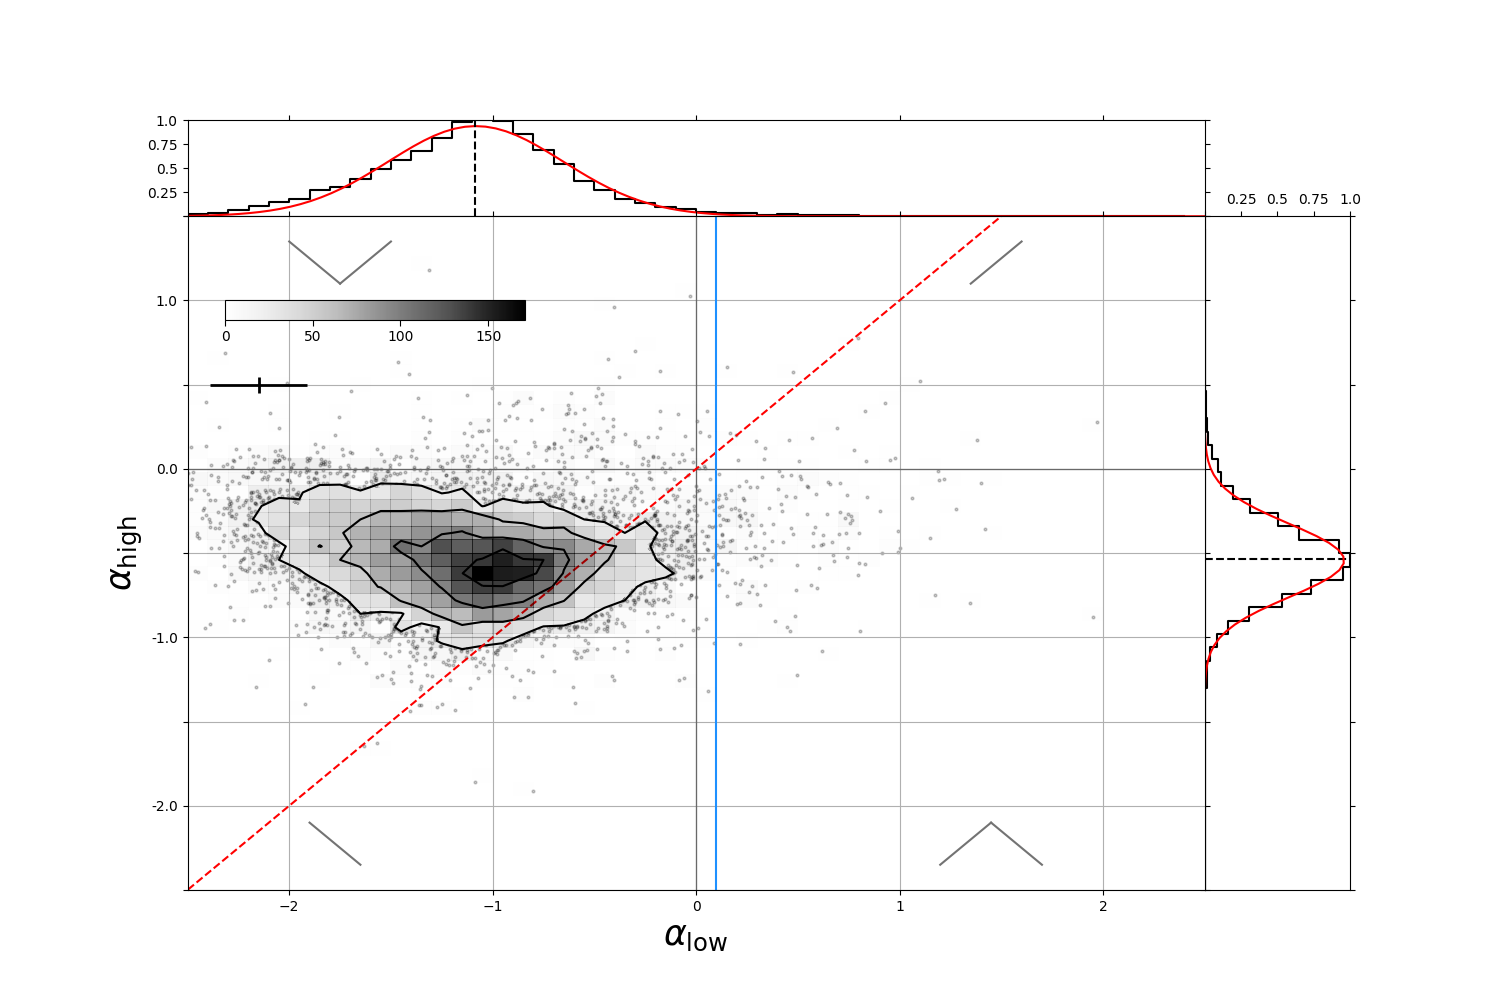
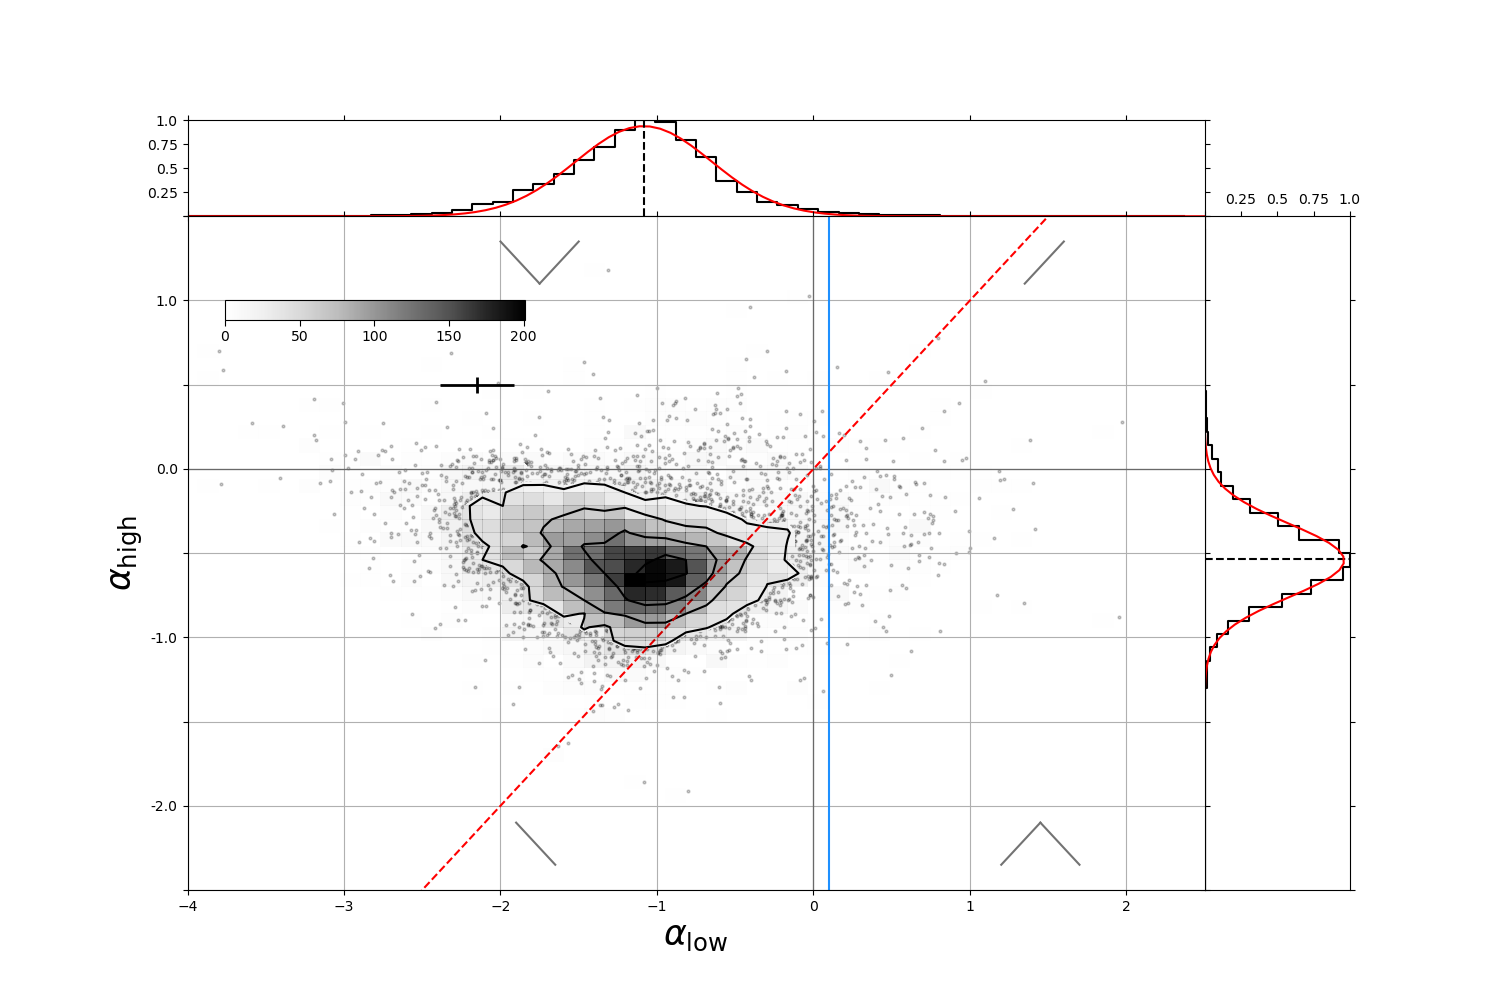
fixed peak to total flux

diff --git a/code_martje/data_selec_isolated.py b/code_martje/data_selec_isolated.py
@@ -15,12 +15,12 @@ survey.close()
 print(data.colnames)
 data.sort('RA')
 
-
+#FIX COMMENTS LATER, NOW JUST RUN IT WITH OTHER COLUMN
 # # Get flux data + errors from data
-peak_flux = data['Peak_flux']
+total_flux = data['Total_flux']
 
 # # Get position data
-sample = len(peak_flux) - 1
+sample = len(total_flux) - 1
 RA = np.array(data['RA'])
 DEC = np.array(data['DEC'])
 
@@ -42,15 +42,15 @@ for index, i in enumerate(tqdm(RA)):
     if index - border < 0:
         RA_i = np.concatenate((RA[index - border:], RA[:index + border]))
         DEC_i = np.concatenate((DEC[index - border:], DEC[:index + border]))
-        peak_flux_i = np.concatenate((peak_flux[index - border:], peak_flux[:index + border]))
+        total_flux_i = np.concatenate((total_flux[index - border:], total_flux[:index + border]))
     elif index + border > len(RA):
         RA_i = np.concatenate((RA[index-border:], RA[:index+border-len(RA)]))
         DEC_i = np.concatenate((DEC[index-border:], DEC[:index+border-len(RA)]))
-        peak_flux_i = np.concatenate((peak_flux[index-border:], peak_flux[:index+border-len(RA)]))
+        total_flux_i = np.concatenate((total_flux[index-border:], total_flux[:index+border-len(RA)]))
     else:
         RA_i = RA[index-border:index+border]
         DEC_i = DEC[index-border:index+border]
-        peak_flux_i = peak_flux[index-border:index+border]
+        total_flux_i = total_flux[index-border:index+border]
         # name_i = name[index-border:index+border]
 
     # Check if any source has an absolute distance <47'' in RA or DEC from a source
@@ -63,8 +63,8 @@ for index, i in enumerate(tqdm(RA)):
 
     # remove sources from catalogue
     if np.any(isolate_mask):   
-        flux_source = peak_flux[index]
-        neighbour_flux = peak_flux_i[isolate_mask]
+        flux_source = total_flux[index]
+        neighbour_flux = total_flux_i[isolate_mask]
         for number, f in enumerate(neighbour_flux):
             if f/flux_source > 0.1:
                 unisolated_index.append(index)

diff --git a/code_martje/plot_colour_colour.py b/code_martje/plot_colour_colour.py
@@ -62,7 +62,7 @@ for i_bins in range(1): #range(len(bins_list)):, change range to plot for all br
     ax = plt.subplot(gs[2]) #main
 
     # Limits of plot
-    xmin = -2.5
+    xmin = -4#-2.5
     xmax = 2.5
     ymin = -2.5
     ymax = 1.5
